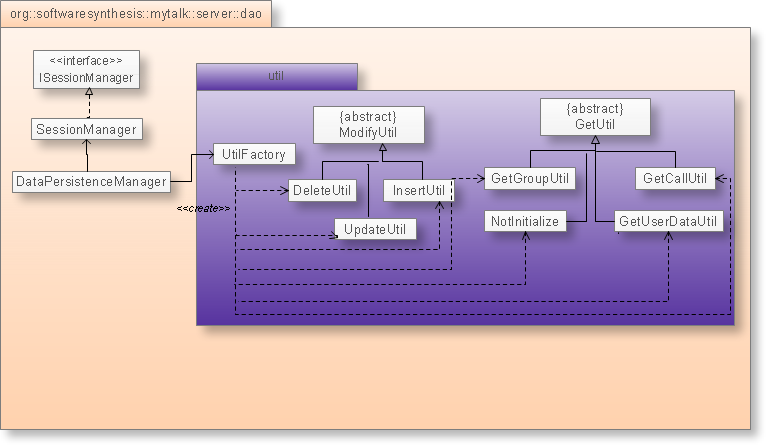
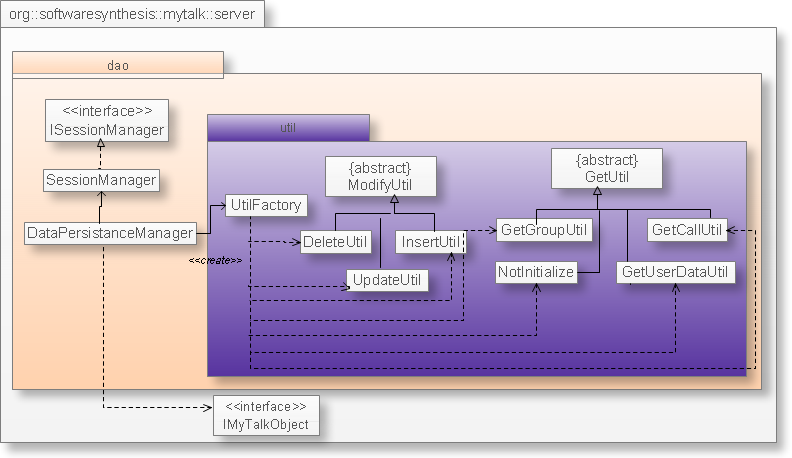
verificata e corretta specifica tecnica fino a Gestione autenticazione (esclusa)

diff --git a/Documents/specifica_tecnica/specifica_tecnica.tex b/Documents/specifica_tecnica/specifica_tecnica.tex
@@ -1,3 +1,4 @@
+
 % Documents/specifica_tecnica.tex
 %------------------------ RUOLI PA --------------------------
 % FASE 1:
@@ -66,10 +67,11 @@
 \toprule
 Versione & Descrizione intervento & Membro & Ruolo & Data\\
 \midrule
-2.6 & Approvato documento & Marco Schivo & Responsabile & 2013-04-17\\
-2.5 & Verifica documento & Stefano Farronato & Verificatore & 2013-04-17\\
-2.4 & Corretti riferimenti obsoleti alle classi del package server.dao. Aggiornati i tracciamenti & Diego Beraldin & Verificatore & 2013-04-17\\
-2.3 & Rivista descrizione CS01 e CS07. Aggiunta componente CS08 & Andrea Meneghinello & Verificatore & 2013-04-16\\
+3.0 & Approvato documento & Marco Schivo & Responsabile & 2013-04-19\\
+2.5 & Verifica documento & Stefano Farronato & Verificatore & 2013-04-19\\
+2.4 & Corretti riferimenti obsoleti alle classi del package server.dao. Aggiornati i tracciamenti & Diego Beraldin & Verificatore & 2013-04-19\\
+2.3 & Rivista descrizione CS01 e CS07. Aggiunta componente CS08 & Andrea Meneghinello & Verificatore & 2013-04-18\\
+2.2 & Aggiornati diagrammi delle classi & Elena Zecchinato & Verificatore & 2013-04-17\\
 2.2 & Aggiornati diagrammi di attività con l'aggiunta delle guardie & Elena Zecchinato & Verificatore & 2013-04-10\\
 2.1 & Aggiunte considerazione sugli svantaggi degli strumenti utilizzati & Andrea Rizzi & Verificatore & 2013-04-10\\
 2.0 & Approvazione del documento & Diego Beraldin & Responsabile & 2013-02-20\\
@@ -300,7 +302,7 @@ Tali considerazioni di base, hanno portato il team a suddividere l'architettura 
 
 Le specifiche di ogni sotto-architettura saranno definite, rispettivamente nelle sezioni \vref{sec:database}, \vref{sec:server}, \vref{sec:clientpresenter} e \vref{sec:clientview}.
 
-Inoltre si fa presente che l'architettura generale, intesa come agglomerato delle tre sotto-architetture precedentemente elencate, fa uso del pattern MVP\@.
+Inoltre si fa presente che l'architettura generale, intesa come agglomerato delle tre sotto-architetture precedentemente elencate, fa uso del \inglese{pattern} MVP\@.
 Con tale ottica la sotto-architettura \texttt{server} ricopre il ruolo di \inglese{model}, \texttt{clientpresenter} costituisce invece il \inglese{presenter}, mentre \texttt{clientview} è la vista definita per questo progetto. Tra le considerazioni più interessanti che hanno portato alla scelta di questo \inglese{pattern}, va messa in evidenza la seguente:
 
 assegnando a ogni sotto-architettura un ruolo specifico, si garantisce un alto livello di riutilizzo del codice (e.g. la vista comunica con il \inglese{presenter} poiché non conosce la logica di \inglese{business} del sistema).
@@ -636,14 +638,14 @@ Infine si fa notare che i nomi di tutte le classi riportate nella presente sezio
 \item{\scshape\bfseries Descrizione:}\\
 Tale componente si occupa di rappresentare la struttura del database relazionale su cui poggia l'applicativo, tramite esso il sistema potrà quindi effettuare operazione di lettura e scrittura di entità all'interno del database.
 
-Nucleo logico del componente è la classe Singleton \texttt{SessionManager} (implementazione dell'interfaccia \texttt{ISession}), il cui compito è implementare una \inglese{factory} per le sessioni verso il database. Tali sessioni si basano sul file di configurazione di Hibernate, tra le cui informazioni compare anche la tipologia di DBMS utilizzata.
+Nucleo logico del componente è la classe Singleton \texttt{SessionManager} (implementazione dell'interfaccia \texttt{ISessionManager}), il cui compito è implementare una \inglese{factory} per le sessioni verso il database. Tali sessioni si basano sul file di configurazione di Hibernate, tra le cui informazioni compare anche la tipologia di DBMS utilizzata.
 
 Hibernate necessita di definire una classe atta a rappresentare la struttura di un generico oggetto del database, essa è denominata \texttt{DataPersistanceManager}.
 Per ogni oggetto del database così creato, sono predisposte delle operazioni per garantirne la modifica e permettere il ritorno dei dati in essi contenuti. Tali procedure sono descritte mediante  classi che implementano il \inglese{pattern} \inglese{template method}:
 
 \begin{description}
 \item[-] \texttt{GetUtil}: classe astratta che contiene i metodi per ottenere i valori dei campi dati intrinsechi dell'oggetto, essa viene quindi estesa da quattro sottoclassi: \texttt{GetCallUtil}, \texttt{GetGroupUtil}, \texttt{GetUserDataUtil} e \texttt{NotInitialize} ;
-\item[-] \texttt{ModifyUtil}: una classe astratta che descrive una generica operazione di modifica ai campi dati dell'oggetto. Essa viene quindi estesa da tre sottoclassi: \texttt{DeleteUtil}, \texttt{UpdateUtil}, \texttt{InsertUtil}.
+\item[-] \texttt{ModifyUtil}: classe astratta che descrive una generica operazione di modifica ai campi dati dell'oggetto. Essa viene estesa da tre sottoclassi che rappresentano le tre tipologie di operazioni possibili: \texttt{DeleteUtil}, \texttt{UpdateUtil}, \texttt{InsertUtil}.
 \end{description}
 
 Il sistema definisce inoltre una classe \texttt{UtilFactory} usata per stabilire quale classe (tra quelle di \inglese{utility}) usare per l'esecuzione di un operazione su una tabella del database.
@@ -671,17 +673,16 @@ Per chiarezza citiamo in tale sezione anche le classi che mappano le entità rap
 
 Precisiamo che le classi rappresentanti i \inglese{transfer object} si trovano a essere collocate in package e componenti diversi da \texttt{server.dao}. Si è ritenuto infatti sensato inserire tali classi in contesti maggiormente specializzati, ad esempio la classe corrispondente ai messaggi in segreteria verrà ad essere collocata in \texttt{server.message}, mentre quella corrispondente alle chiamate in \texttt{server.call}.
 
-
 \item{\scshape\bfseries Diagramma delle classi:}
 \begin{figure}[H]
   \centering
-  \includegraphics[width=1\textwidth]{class_gestione_database}
+  \includegraphics[width=0.9\textwidth]{class_gestione_database}
   \caption{Diagramma delle classi - Gestione database}\label{fig:gestionedatabase}
 \end{figure}
 
 	\item{\scshape\bfseries Classi utilizzate:}
 	\begin{itemize}[nolistsep, noitemsep]
-	  \item[-] \texttt{server.dao.ISession}
+	  \item[-] \texttt{server.dao.ISessionManager}
 	  \item[-] \texttt{server.dao.SessionManager}
 	  \item[-] \texttt{server.dao.DataPersistanceManager}
 	  \item[-] \texttt{server.dao.util.UtilFactory}
@@ -706,11 +707,11 @@ Tale componente ingloba le classi destinate a stabilire le \inglese{routine} di 
 
 La comunicazione bidirezionale fra il server e i client è ottenuta estendendo la classe fornita dalle librerie di \textit{TomCat} \texttt{org.apache.catalina.websocket.MessageInbound} mediante \texttt{connection.PushInbound}. In particolare sarà realizzato l'\inglese{overriding} del metodo \texttt{onTextMessage(CharBuffer)} in modo da permettere al componente \textsf{Gestione connessione} del server di reagire correttamente ai messaggi provenienti dal client in forma testuale.
 
-Un ruolo essenziale è inoltre svolto dalla \inglese{servlet} \texttt{connection.ControllerManager}, realizzata estendendo mediante ereditarietà la classe fornita dalle librerie di \textit{Apache TomCat} \texttt{org.apache.catalina.websocket.WebSocketServlet}. Tale \inglese{servlet} non fa parte di questa componente, viene qui citata unicamente per chiarire l'interazione tra il client e il server in merito alla comunicazione. La \inglese{servlet} risiede, come si vedrà in seguito, nella componente \textsf{CS07 -- Gestione controller}.
+Un ruolo essenziale è inoltre svolto dalla \inglese{servlet} \texttt{connection.ControllerManager}, realizzata estendendo mediante ereditarietà la classe fornita dalle librerie di Apache TomCat \texttt{org.apache.catalina.websocket.WebSocketServlet}. Tale \inglese{servlet} non fa parte di questa componente, viene qui citata unicamente per chiarire l'interazione tra il client e il server in merito alla comunicazione. La \inglese{servlet} risiede, come si vedrà in seguito, nella componente \textsf{CS07 -- Gestione controller}.
 
 La caratteristica fondamentale della \inglese{servlet}, che rappresenta inoltre un punto di accesso centralizzato alle funzionalità del componente \textsf{Gestione connessione}, è quella di fare \inglese{overriding} del metodo \texttt{createWebSocketInbound(String, HttpServletRequest)} al fine di restituire un opportuno sottotipo di \texttt{org.apache.catalina.websocket.StreamInbound}. Il tipo dinamico dell'oggetto ritornato da \texttt{connection.ConnectionManager} corrisponde infatti proprio a \texttt{connection.PushInbound} in modo che lato client l'invocazione del costruttore di \texttt{WebSocket} (passando come parametro l'URL della \inglese{servlet}) crei una connessione del tipo voluto.
 
-Ne consegue che, come sarà esposto con maggiori dettagli nella sezione \vref{sec:patternfactorymethod}, \texttt{createWebSocketInbound} è un'applicazione del \inglese{design pattern} Factory Method, in quanto la sottoclasse di \texttt{WebSocketServlet} restituisce un oggetto di tipo statico \texttt{StreamInbound} ma avente il tipo dinamico adatto agli scopi dell'applicazione.
+Ne consegue che, come sarà esposto con maggiori dettagli nella sezione \vref{sec:patternfactorymethod}, la classe \texttt{ControllerManager} è un'applicazione del \inglese{design pattern} Factory Method, in quanto la sottoclasse di \texttt{WebSocketServlet} restituisce un oggetto di tipo statico \texttt{StreamInbound} ma avente il tipo dinamico adatto agli scopi dell'applicazione.
 
 	\item{\scshape\bfseries Diagramma delle classi:}
 \begin{figure}[H]
@@ -722,7 +723,6 @@ Ne consegue che, come sarà esposto con maggiori dettagli nella sezione \vref{se
 	\item{\scshape\bfseries Classi utilizzate:}
 	\begin{itemize}[nolistsep, noitemsep]
 	  \item[-] \texttt{connection.PushInbound}
-	  \item[-] \texttt{connection.State}
 	  \item[-] \texttt{org.apache.catalina.websocket.MessageInbound}
 	\end{itemize}
 \end{description}
@@ -736,11 +736,11 @@ A ogni utente del sistema, che corrisponde a un'istanza di \texttt{abook.UserDat
 
 La rubrica è rappresentata da una lista di \texttt{abook.IAddressBookEntry}, per la quale si fornisce un'implementazione nominata \texttt{abook.AddressBookEntry} che rappresenta un contatto della rubrica di un utente. Come si evince dal diagramma riportato in figura \ref{fig:gestionerubrica}, la struttura del componente rispecchia la logica di funzionamento del database.
 
-Di conseguenza ogni istanza di tipo \texttt{abook.AddressBookEntry} apparterrà a un solo \texttt{abook.IUserData} e in essa è registrata un'istanza di \texttt{abook.UserData} che rappresenta il contatto facente parte della rubrica.
+Di conseguenza, ogni istanza di tipo \texttt{abook.AddressBookEntry} apparterrà a un solo utente (\texttt{abook.IUserData}) e in essa è registrata un'istanza di \texttt{abook.UserData} che rappresenta il contatto facente parte della rubrica.
 
-Gli utenti inoltre possono essere opzionalmente organizzati in gruppi: un contatto in rubrica può, in un dato momento, appartenere a uno o più gruppi oppure non appartenere a nessuno. Per tale motivo ogni istanza di \texttt{abook.AddressBookEntry} contiene anche un riferimento di tipo \texttt{IGroup}.
+I contatti inoltre possono essere opzionalmente organizzati in gruppi: un contatto in rubrica può, in un dato momento, appartenere a uno o più gruppi oppure non appartenere a nessuno. Per tale motivo ogni istanza di \texttt{abook.AddressBookEntry} contiene anche un riferimento di tipo \texttt{IGroup}.
 
-Tale interfaccia, congiuntamente alla sua implementazione \texttt{abook.Group}, permettono di rappresentare i gruppi della rubrica di un utente.
+Tale interfaccia, congiuntamente alla sua implementazione \texttt{abook.Group}, permette di rappresentare i gruppi della rubrica di un utente.
 
 Infine sono stati predisposti 12 \inglese{controller} per interagire con le classi di questa componente:
 
@@ -759,7 +759,7 @@ Infine sono stati predisposti 12 \inglese{controller} per interagire con le clas
 	  \item \texttt{abook.controller.AccountSettingsController}
 \end{itemize}
 
-Le loro funzionalità riguardano principalmente le possibilità di modificare, creare e cancellare istanze di oggetti del tipo \texttt{transfer object} e quindi riconducibili ad oggetti fisicamente presenti nel database. I \inglese{controller} saranno descritte con maggiori dettaglio nella sezione \vref{sec:cs07} (\textsf{CS07 -- Gestione controller}).
+Le loro funzionalità riguardano principalmente le possibilità di modificare, creare e cancellare istanze di oggetti del tipo \inglese{Transfer Object} e quindi riconducibili ad oggetti fisicamente presenti nel database. Le classi \inglese{controller} saranno descritte con maggiori dettaglio nella sezione \vref{sec:cs07} (\textsf{CS07 -- Gestione controller}).
 
 	\item{\scshape\bfseries Diagramma delle classi:}
 \begin{figure}[H]
@@ -1086,7 +1086,7 @@ Classe che costituisce il front controller del server. Ogni richiesta inoltrata 
 
 \begin{itemize}[leftmargin=0em]
 
-\item \texttt{ISession}
+\item \texttt{ISessionManager}
 \begin{description}
   \item{\scshape\bfseries Descrizione:}\\
 Interfaccia che definisce un generico componente che gestisce una sessione Hibernate.
@@ -1102,7 +1102,7 @@ Interfaccia che definisce un generico componente che gestisce una sessione Hiber
   \item{\scshape\bfseries Descrizione:}\\
 Classe che rappresenta una generica istanza di una tabella del database gestito mediante Hibernate, la classe contiene associazioni:
 \begin{itemize}
-\item alla sessione Hibernate in corso (riferimento ad un oggetto \texttt{ISession});
+\item alla sessione Hibernate in corso (riferimento ad un oggetto \texttt{ISessionManager});
 \item alla classe che definisce le operazioni di get (\texttt{GetUtil)};
 \item alla classe che definisce le operazioni di modifica ai campi membro dell'oggetto rappresentato (\texttt{ModifyUtil)}.
 \end{itemize}
@@ -1230,7 +1230,7 @@ classe che estende \texttt{ModifyUtil}, ridefinisce l'algoritmo del metodo astra
 \item \texttt{SessionManager}
 \begin{description}
   \item{\scshape\bfseries Descrizione:}\\
-Classe che implementa il \inglese{pattern} Singleton e che viene utilizzata dalla classe \texttt{DataPersistanceManager} al fine di ottenere un riferimento alla sessione di connessione al DBMS tramite la quale effettuare le transazioni corrispondenti alle operazioni volte ad assicurare la persistenza dei dati. Tale classe implementa la classe \texttt{ISession}.
+Classe che implementa il \inglese{pattern} Singleton e che viene utilizzata dalla classe \texttt{DataPersistanceManager} al fine di ottenere un riferimento alla sessione di connessione al DBMS tramite la quale effettuare le transazioni corrispondenti alle operazioni volte ad assicurare la persistenza dei dati. Tale classe implementa la classe \texttt{ISessionManager}.
 
   \item{\scshape\bfseries Componenti che ne fanno uso:}
   \begin{itemize}[noitemsep,nolistsep]
@@ -2720,7 +2720,8 @@ Implementazione di \texttt{IRegisterView}.
 \section{Design pattern utilizzati}
 In conformità con quanto stabilito nella sezione 7.2 del documento \textit{norme\_di\_progetto.3.0.pdf}, per ognuno dei \inglese{design pattern} sono riportati lo scopo e una descrizione del contesto di applicazione del \inglese{pattern} all'interno di un componente, evidenziando in particolar modo i vantaggi derivati e riportando un diagramma esemplificativo.
 
-Per una visione d'insieme dei componenti utilizzati da un \inglese{pattern}, e dei \inglese{pattern} utilizzati da un componente, si rimanda alle sottosezioni ``Tracciamenti Componenti-Design Pattern'' e ``Tracciamenti Design Pattern-Componenti'' della sezione \vref{sec:tracciamenti}.
+Per una visione d'insieme dei componenti utilizzati da un \inglese{pattern}, e dei \inglese{pattern} utilizzati da un componente, si rimanda alle sottosezioni \vref{sec:tracCompDp} e \vref{sec:tracDpComp}.
+
 
 \subsection{Data Access Object (DAO)}\label{sec:patterndao}
 
@@ -2818,7 +2819,7 @@ Definisce un'interfaccia per il comportamento di un algoritmo generico, lasciand
 \begin{description}
 
   \item{\scshape\bfseries CS04 -- Gestione autenticazione}\\
-All'interno di tale classe l'utilizzo del pattern si ha nel momento in cui è necessario definire una strategia di criptazione e decriptazione dei dati, passati dall'utente per eseguire l'autenticazione. L'interfaccia atta a definire l'algoritmo generico è \texttt{authentication.security.ISecurityStrategy} mentre una prima implementazione proposta dal team è \texttt{authentication.security.AESAlgorithm}, che definisce un algoritmo di criptazione basato su AES.
+All'interno di tale classe l'utilizzo del \inglese{pattern} si ha nel momento in cui è necessario definire una strategia di criptazione e decriptazione dei dati, passati dall'utente per eseguire l'autenticazione. L'interfaccia atta a definire l'algoritmo generico è \texttt{authentication.security.ISecurityStrategy} mentre una prima implementazione proposta dal team è \texttt{authentication.security.AESAlgorithm}, che definisce un algoritmo di criptazione basato su AES.
 
 \begin{figure}[H]
   \centering
@@ -2837,7 +2838,7 @@ Permette di definire la struttura di un algoritmo lasciando alle sottoclassi il 
 \begin{description}
 
   \item{\scshape\bfseries CS01 -- Gestione database}\\
-In tale componente la classe \texttt{dao.util.ModifyUtil} implementa il pattern \texttt{template method} definendo un metodo per l'esecuzione di un'operazione su \texttt{dao.DataPersistenceManager}, e lasciando l'implementazione dell'algoritmo alle classi figlie. Tali sono: \texttt{dao.util.InsertUtil}, \texttt{dao.util.UpdateUtil} e \texttt{dao.util.DeleteUtil}.
+In tale componente la classe \texttt{dao.util.ModifyUtil} implementa il \inglese{pattern} \texttt{template method} definendo un metodo per l'esecuzione di un'operazione su \texttt{dao.DataPersistenceManager}, e lasciando l'implementazione dell'algoritmo alle classi figlie. Tali sono: \texttt{dao.util.InsertUtil}, \texttt{dao.util.UpdateUtil} e \texttt{dao.util.DeleteUtil}.
 
 
 \begin{figure}[H]
@@ -2860,7 +2861,7 @@ Anche la classe \texttt{dao.util.GetUtil} implementa lo stesso comportamento, la
 
 
 	\item{\scshape\bfseries CS04 -- Gestione autenticazione}\\
-In tale componente la classe \texttt{authentication.security.AESTemplate} implementa il pattern \texttt{template method} definendo un metodo per l'esecuzione di un operazione AES. Nello specifico le operazioni possibili sono: criptazione e decriptazione. Tali sono rappresentate dalle classi \texttt{authentication.security.AESEncode} e \texttt{authentication.security.AESDecode}.
+In tale componente la classe \texttt{authentication.security.AESTemplate} implementa il \inglese{pattern} \texttt{template method} definendo un metodo per l'esecuzione di un operazione AES. Nello specifico le operazioni possibili sono: criptazione e decriptazione. Tali sono rappresentate dalle classi \texttt{authentication.security.AESEncode} e \texttt{authentication.security.AESDecode}.
 
 \begin{figure}[H]
   \centering
@@ -2887,7 +2888,7 @@ Per rendere il diagramma più chiaro e leggibile, sono state omesse le relazioni
 \subsection{Model-View-Presenter}\label{sec:MVP}
 
 \subsubsection{Scopo}
-Il pattern architetturale \inglese{Model-View-Presenter} similmente a quanto accade per \inglese{Model-View-Controller} (MVC), ha lo scopo di mantenere separata la \inglese{business logic}, cioè la gestione dei dati secondo le regole di un determinato dominio e la loro memorizzazione in forma persistente, dalla presentazione e manipolazione mediante interfaccia utente.
+Il \inglese{pattern} architetturale \inglese{Model-View-Presenter} similmente a quanto accade per \inglese{Model-View-Controller} (MVC), ha lo scopo di mantenere separata la \inglese{business logic}, cioè la gestione dei dati secondo le regole di un determinato dominio e la loro memorizzazione in forma persistente, dalla presentazione e manipolazione mediante interfaccia utente.
 
 
 \begin{figure}[H]

diff --git a/Documents/definizione_di_prodotto/definizione_di_prodotto.tex b/Documents/definizione_di_prodotto/definizione_di_prodotto.tex
@@ -3267,7 +3267,7 @@ Classe per la definizione di un apposito canale di comunicazione client-server. 
 	\item \texttt{java.util.Iterator}: usata per scorrere il contenuto dell'insieme di \classname{AddressBookEntry}
 	\item \texttt{java.util.Set}: struttura dati usata per memorizzare le \inglese{entry} (\classname{AddressBookEntry}) che costituiscono la rubrica dell'utente.
 	\item \texttt{com.google.gson.*}: converte i dati interni in una stringa formato JSON.
-	\item \classname{State}: classe interna utilizzata per rappresentare lo stato dell'utente a cui è associata l'istanza di \classname{PushInbound}. Un utente ha uno stato fintanto che è connesso (quindi fintanto che esiste sul server un'istanza di \classname{PushInbound}  ad esso associata). Gli stati possibili sono: \texttt{available} (utente connesso e libero, quindi disposto a ricevere chiamate) e \texttt{occupied} (utente connesso ma attualmente occupato in un'altra conversazione).
+	
 	\item \classname{abook.AddressBookEntry}: usata per definire la rubrica dell'utente, richiamata dal metodo \method{onTextMessage} nel momento in cui si presenta la necessità di aggiornare lo stato dell'utente e renderlo visibile ai suoi contatti.
 	\item \classname{abook.IUserData}: usata per riferire un istanza della classe ad un particolare utente.
 	\item \classname{dao.DataPersistanceManger}: usata per riferire un istanza della classe ad un particolare utente.
